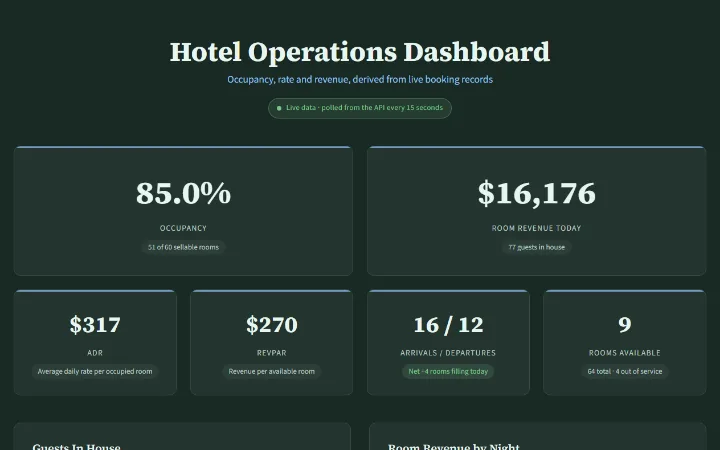
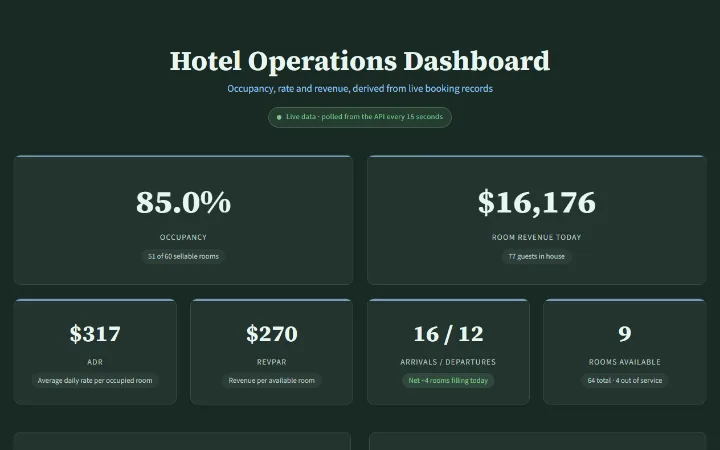
feat: back button

diff --git a/e2e/home-link.spec.ts b/e2e/home-link.spec.ts
@@ -1,0 +1,76 @@
+import { expect, test } from '@playwright/test';
+import { stubBackendDown } from './support/backend';
+
+/**
+ * The way back from every route a project card opens, measured where jsdom
+ * cannot: on the first screen, in a real layout, at a desktop and a phone
+ * width. The unit test proves the component's markup; only a browser can say
+ * the link is above the fold rather than merely present.
+ *
+ * Not `/aubade` or `/aubade/reader`: that work shares nothing with this one.
+ * Nothing here checks that it stays absent, because it cannot arrive:
+ * `check:docs` fails on any import from `src/app/` inside `src/aubade/`, and
+ * the component lives in `src/app/`.
+ */
+const ROUTES = [
+  '/dashboard',
+  '/booking',
+  '/work',
+  '/gallery',
+  '/aesthetic',
+  '/wanderquest',
+  '/murmuration',
+] as const;
+
+const VIEWPORTS = [
+  { name: 'desktop', width: 1440, height: 900 },
+  { name: 'phone', width: 390, height: 844 },
+] as const;
+
+test.describe('home link', () => {
+  // Down rather than up: what the API says is beside the point here, and a
+  // refused request settles faster than one left to time out.
+  test.beforeEach(async ({ page }) => {
+    await stubBackendDown(page);
+  });
+
+  for (const viewport of VIEWPORTS) {
+    for (const route of ROUTES) {
+      test(`${route} reaches home from the first screen at ${viewport.name} width`, async ({
+        page,
+      }) => {
+        await page.setViewportSize({ width: viewport.width, height: viewport.height });
+        await page.goto(route);
+
+        const link = page
+          .getByRole('navigation', { name: 'Site' })
+          .getByRole('link', { name: 'Jacob Miller' });
+        await expect(link).toHaveAttribute('href', '/');
+        await expect(link).toBeInViewport({ ratio: 1 });
+        expect(await page.evaluate(() => window.scrollY)).toBe(0);
+      });
+    }
+  }
+
+  test('/murmuration keeps the whole viewport for its canvas', async ({ page }) => {
+    await page.goto('/murmuration');
+    const canvas = page.locator('app-murmuration canvas');
+    await expect(canvas).toBeVisible();
+
+    const box = await canvas.boundingBox();
+    const viewport = page.viewportSize();
+    expect(box).toEqual({ x: 0, y: 0, width: viewport?.width, height: viewport?.height });
+    // The link floats over the canvas; the page itself must not grow a scroll.
+    expect(
+      await page.evaluate(() => document.documentElement.scrollHeight <= window.innerHeight)
+    ).toBe(true);
+  });
+
+  test('following it from a demo lands on the home page', async ({ page }) => {
+    await page.goto('/dashboard');
+    await page.getByRole('navigation', { name: 'Site' }).getByRole('link').click();
+
+    await expect(page).toHaveURL('/');
+    await expect(page.locator('#main-content')).toBeVisible();
+  });
+});

diff --git a/src/app/home-link/home-link.css b/src/app/home-link/home-link.css
@@ -1,0 +1,62 @@
+/* ----- The way back -----
+   The padding is the home page's `.nav` padding, 2rem and 1rem from 480px
+   down, so the name lands where the visitor last saw it. No background and no
+   border: the bar is not a second nav, it is one link, and the page's own
+   `main` starts directly under it. */
+:host {
+  display: block;
+}
+
+.home-link {
+  padding: 0.5rem 2rem 0;
+}
+
+/* 44px tall, the same tap target as the home nav's links, and the same
+   behaviour on hover: the colour changes and the underline takes colour. */
+.home-link a {
+  display: inline-flex;
+  align-items: center;
+  gap: 0.4em;
+  min-height: 44px;
+  font-size: 0.875rem;
+  color: var(--color-text-secondary);
+  text-decoration: underline;
+  text-decoration-thickness: 1px;
+  text-underline-offset: 4px;
+  text-decoration-color: transparent;
+  transition:
+    color 0.15s ease,
+    text-decoration-color 0.15s ease;
+}
+
+.home-link a:hover {
+  color: var(--color-accent-text);
+  text-decoration-color: var(--color-accent);
+}
+
+@media (max-width: 480px) {
+  .home-link {
+    padding: 0.5rem 1rem 0;
+  }
+}
+
+/* Over a full-viewport canvas. Fixed, so the canvas keeps the whole viewport
+   and the page does not scroll; an opaque surface behind the text, because
+   the picture under it moves and no contrast could be promised against it. */
+:host(.floating) {
+  position: fixed;
+  top: 1rem;
+  left: 1rem;
+  z-index: 1;
+}
+
+:host(.floating) .home-link {
+  padding: 0;
+}
+
+:host(.floating) .home-link a {
+  padding: 0 0.75rem;
+  background: var(--color-surface);
+  border: 1px solid var(--color-border);
+  border-radius: 4px;
+}

diff --git a/src/app/home-link/home-link.ts b/src/app/home-link/home-link.ts
@@ -1,0 +1,36 @@
+import { ChangeDetectionStrategy, Component, input } from '@angular/core';
+
+/**
+ * The way back to the portfolio from a route a project card opened.
+ *
+ * Every route except `/` renders nothing but its own component — there is no
+ * shell around the router outlet — so before this existed a visitor who
+ * followed a card reached a page with no way out but the browser's Back
+ * button. One component for every route rather than a link per template, so
+ * its wording, its tap target and its place on the first screen are decided
+ * once.
+ *
+ * Two shapes. By default it is a bar above the page's `main`, padded like the
+ * home page's nav so the name sits where it sat there. `floating` is for
+ * `/murmuration`, whose canvas is the whole viewport: the bar would push the
+ * canvas down by its own height and the page would scroll, so the link sits
+ * over a corner of the picture instead and takes nothing from it.
+ *
+ * A plain `href`, not `routerLink`, like every other internal link on the
+ * site: it works before the app boots, on middle click and on copy-link, and
+ * the component needs no router to test.
+ *
+ * Not used on `/aubade` or `/aubade/reader`. That work shares this deployment
+ * and nothing else, and its own doors are part of it.
+ */
+@Component({
+  selector: 'app-home-link',
+  imports: [],
+  templateUrl: './home-link.html',
+  styleUrl: './home-link.css',
+  changeDetection: ChangeDetectionStrategy.OnPush,
+  host: { '[class.floating]': 'floating()' },
+})
+export class HomeLink {
+  public readonly floating = input(false);
+}

diff --git a/src/app/home-link/home-link.spec.ts b/src/app/home-link/home-link.spec.ts
@@ -1,0 +1,28 @@
+import { TestBed } from '@angular/core/testing';
+import { HomeLink } from './home-link';
+
+describe('HomeLink', () => {
+  it('links home under a named landmark, with the arrow kept out of the name', async () => {
+    const fixture = TestBed.createComponent(HomeLink);
+    await fixture.whenStable();
+    const host = fixture.nativeElement as HTMLElement;
+    const nav = host.querySelector('nav');
+    const link = nav?.querySelector<HTMLAnchorElement>('a');
+
+    expect(nav?.getAttribute('aria-label')).toBe('Site');
+    expect(link?.getAttribute('href')).toBe('/');
+    expect(link?.querySelector('[aria-hidden="true"]')?.textContent).toBe('←');
+    expect(link?.textContent?.replace('←', '').trim()).toBe('Jacob Miller');
+  });
+
+  it('sits in the flow by default and floats only when asked', async () => {
+    const fixture = TestBed.createComponent(HomeLink);
+    await fixture.whenStable();
+    const host = fixture.nativeElement as HTMLElement;
+    expect(host.classList.contains('floating')).toBe(false);
+
+    fixture.componentRef.setInput('floating', true);
+    await fixture.whenStable();
+    expect(host.classList.contains('floating')).toBe(true);
+  });
+});

diff --git a/src/app/wanderquest/wanderquest.ts b/src/app/wanderquest/wanderquest.ts
@@ -10,6 +10,7 @@ import {
 import { GuestProgressStore, type GuestList } from './guest-progress';
 import { QuestBonusMap } from './quest-bonus-map';
 import { QuestChecklist } from './quest-checklist';
+import { HomeLink } from '../home-link/home-link';
 import { QuestOutline } from './quest-outline';
 import { QUEST_STATE, QUESTS, stepQuest, type IQuest } from './quest-state';
 import { QuestTally } from './quest-tally';
@@ -23,7 +24,7 @@ import { QuestTally } from './quest-tally';
  */
 @Component({
   selector: 'app-wanderquest',
-  imports: [QuestBonusMap, QuestChecklist, QuestOutline, QuestTally],
+  imports: [HomeLink, QuestBonusMap, QuestChecklist, QuestOutline, QuestTally],
   providers: [GuestProgressStore],
   styleUrl: './wanderquest.css',
   templateUrl: './wanderquest.html',

diff --git a/src/app/dashboard/dashboard.ts b/src/app/dashboard/dashboard.ts
@@ -19,11 +19,12 @@ import { OFFLINE_DASHBOARD } from '../services/offline-dashboard.fixture';
 import { ChartsSection } from './charts-section/charts-section';
 import { DashboardFooter } from './dashboard-footer/dashboard-footer';
 import { DashboardHeader } from './dashboard-header/dashboard-header';
+import { HomeLink } from '../home-link/home-link';
 import { MetricsGrid } from './metrics-grid/metrics-grid';
 
 @Component({
   selector: 'app-dashboard',
-  imports: [DashboardHeader, MetricsGrid, ChartsSection, DashboardFooter],
+  imports: [HomeLink, DashboardHeader, MetricsGrid, ChartsSection, DashboardFooter],
   templateUrl: './dashboard.html',
   styleUrl: './dashboard.css',
   changeDetection: ChangeDetectionStrategy.OnPush,

diff --git a/src/app/booking/booking.ts b/src/app/booking/booking.ts
@@ -8,6 +8,7 @@ import {
 } from '@angular/core';
 import { FormBuilder, FormGroup, ReactiveFormsModule, Validators } from '@angular/forms';
 import { CurrencyPipe, DatePipe } from '@angular/common';
+import { HomeLink } from '../home-link/home-link';
 import { BookingField } from './booking-field/booking-field';
 import {
   BookingApiError,
@@ -80,7 +81,7 @@ function byNewestStay(a: IBooking, b: IBooking): number {
 
 @Component({
   selector: 'app-booking',
-  imports: [ReactiveFormsModule, CurrencyPipe, DatePipe, BookingField],
+  imports: [ReactiveFormsModule, CurrencyPipe, DatePipe, BookingField, HomeLink],
   templateUrl: './booking.html',
   styleUrl: './booking.css',
   changeDetection: ChangeDetectionStrategy.OnPush,

diff --git a/src/app/work/work.html b/src/app/work/work.html
@@ -2,6 +2,7 @@
      `main` rather than `section`, matching `/dashboard` and `/booking`: this
      route renders nothing else, so without it the page is content outside any
      landmark. -->
+<app-home-link />
 <main class="work-page">
   <div class="work-inner">
     <header class="work-header">
@@ -101,7 +102,5 @@
       No client, product, repository, internal service, or colleague is named on this page — a
       constraint enforced by a test, not by memory.
     </p>
-
-    <a class="work-back" href="/">← Back to the rest of the site</a>
   </div>
 </main>

diff --git a/src/app/work/work.ts b/src/app/work/work.ts
@@ -1,4 +1,5 @@
 import { ChangeDetectionStrategy, Component } from '@angular/core';
+import { HomeLink } from '../home-link/home-link';
 import { StudyReadDirective } from './study-read.directive';
 import { CASE_STUDIES, ICaseStudy } from './work.data';
 
@@ -17,7 +18,7 @@ import { CASE_STUDIES, ICaseStudy } from './work.data';
  */
 @Component({
   selector: 'app-work',
-  imports: [StudyReadDirective],
+  imports: [HomeLink, StudyReadDirective],
   templateUrl: './work.html',
   styleUrl: './work.css',
   changeDetection: ChangeDetectionStrategy.OnPush,

diff --git a/src/app/aesthetic/aesthetic.ts b/src/app/aesthetic/aesthetic.ts
@@ -33,6 +33,7 @@ import {
   unwrap,
   VIEW_RADIUS,
 } from './wheel';
+import { HomeLink } from '../home-link/home-link';
 import { AREA_SPLIT, IAesthetic, IVariation, Structure, variations, warm } from './winnow';
 
 /** A source of chance in [0, 1), like `Math.random`. */
@@ -141,6 +142,7 @@ function annulus(r0: number, r1: number): string {
  */
 @Component({
   selector: 'app-aesthetic',
+  imports: [HomeLink],
   templateUrl: './aesthetic.html',
   styleUrl: './aesthetic.css',
   changeDetection: ChangeDetectionStrategy.OnPush,

diff --git a/src/app/gallery/gallery.ts b/src/app/gallery/gallery.ts
@@ -18,6 +18,7 @@ import {
   ORBS_SHOWN,
   PHONE_FRAME_INSET,
 } from './gallery.data';
+import { HomeLink } from '../home-link/home-link';
 import { offerColours, Random, recommend } from './recommend';
 
 /**
@@ -41,6 +42,7 @@ export const GALLERY_RANDOM = new InjectionToken<Random>('GALLERY_RANDOM', {
  */
 @Component({
   selector: 'app-gallery',
+  imports: [HomeLink],
   templateUrl: './gallery.html',
   styleUrl: './gallery.css',
   changeDetection: ChangeDetectionStrategy.OnPush,

diff --git a/src/app/murmuration/murmuration.ts b/src/app/murmuration/murmuration.ts
@@ -36,9 +36,10 @@ import {
 } from './murmuration.tokens';
 import { disposeRenderer } from './renderer/dispose-renderer';
 import { calibrateRenderer, REDUCED_MOTION_QUERY } from './renderer/renderer-calibration';
+import { HomeLink } from '../home-link/home-link';
 import { initializeScene } from './scene/initialize-scene';
 @Component({
-  imports: [],
+  imports: [HomeLink],
   selector: 'app-murmuration',
   styleUrl: './murmuration.css',
   templateUrl: './murmuration.html',
